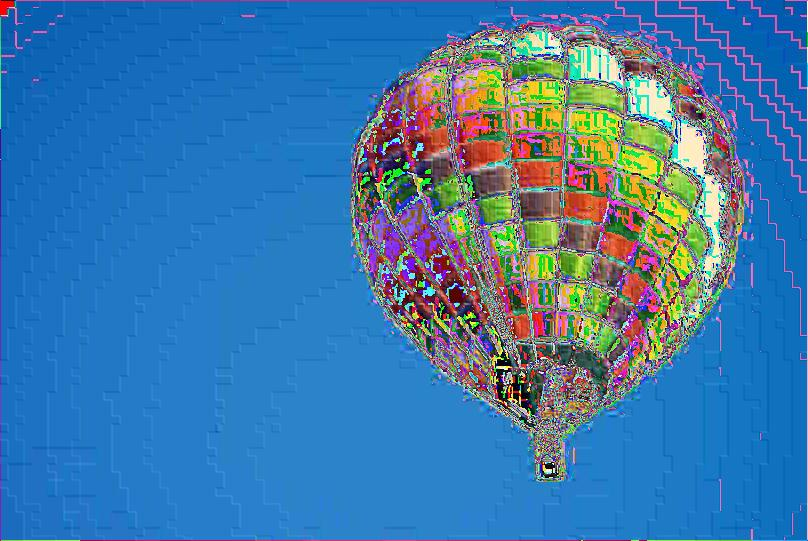
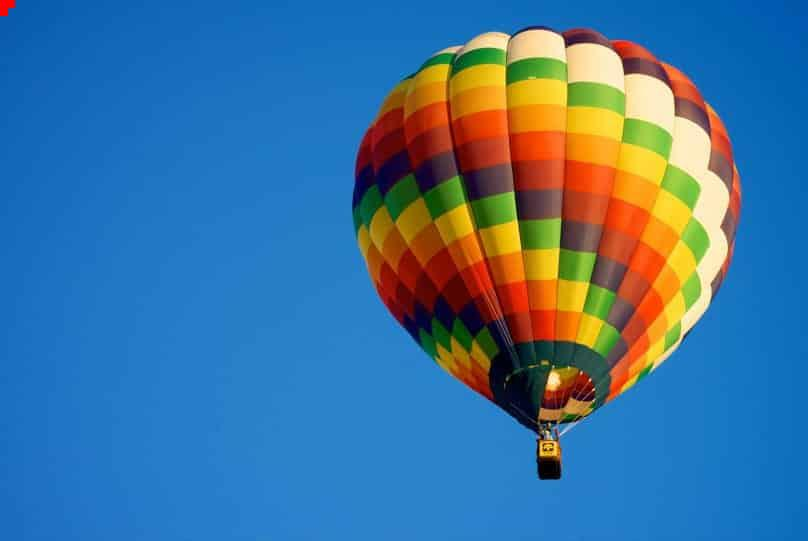
Espelhar, girar e barra de status

Changed region(s): [[0.0, 0.0, 1.0, 1.0]]

diff --git a/src/gui.py b/src/gui.py
@@ -109,6 +109,7 @@ class MainWindow(QMainWindow):
         self.img.append(QPixmap(self.imgNome))
         self.imgDisplay.setPixmap(self.img[self.imgInd])
         self.pixelsArray.append(main.carregarImg(self.imgNome))
+        self.sttsDim.setText(f"{len(self.pixelsArray[self.imgInd])}x{len(self.pixelsArray[self.imgInd][0])}")
     
     def salvarImagem(self):
         imgFolder = os.path.dirname(self.imgNome)
@@ -161,6 +162,12 @@ class MainWindow(QMainWindow):
         self.paramValue = 0
         self.pListValue = []
         self.imgZoom = 1
+
+        # Barra de status
+        self.sttsBar = QStatusBar(self)
+        self.sttsDim = QLabel("0x0")
+        self.sttsBar.addWidget(self.sttsDim)
+        self.setStatusBar(self.sttsBar)
 
         # Imagem
         self.pixelsArray = []
@@ -240,19 +247,22 @@ class MainWindow(QMainWindow):
         # Botões de ferramentas
         toolBtns = []
         btsBarra = QHBoxLayout()
-        btsTxts = ('Inverter','Brilho','Contraste','Cinza','Canais','Borrar','Borda')
+        btsTxts = ('EspelharH','EspelharV','Girar','Inverter','Brilho','Contraste','Cinza','Canais','Borrar','Borda')
         for i in range(len(btsTxts)):
             toolBtns.append(QPushButton(f"{btsTxts[i]}"))
             btsBarra.addWidget(toolBtns[i])
 
         # Associando funções para cada botão de ferramenta
-        toolBtns[0].pressed.connect(lambda: self.btnAction("Inverter...",main.inverter,1,1))
-        toolBtns[1].pressed.connect(lambda: self.btnAction("Brilho...",main.brilho_soma,-255,255))
-        toolBtns[2].pressed.connect(lambda: self.btnAction("Contraste...",main.contraste,-255,255))
-        toolBtns[3].pressed.connect(lambda: self.btnAction("Cinza...",main.to_grayscale,1,5))
-        toolBtns[4].pressed.connect(lambda: self.btnAction("Canais...",main.to_channel,1,3,['R','G','B']))
-        toolBtns[5].pressed.connect(lambda: self.btnAction("Borrar...",main.blur,1,10))
-        toolBtns[6].pressed.connect(lambda: self.btnAction("Borda...",main.sobel,1,1))
+        toolBtns[0].pressed.connect(lambda: self.btnAction("Espelhar horizontalmente...",'espelharH',1,1))
+        toolBtns[1].pressed.connect(lambda: self.btnAction("Espelhar verticalmente...",'espelharV',1,1))
+        toolBtns[2].pressed.connect(lambda: self.btnAction("Girar...",'girar',1,1))
+        toolBtns[3].pressed.connect(lambda: self.btnAction("Inverter...",main.inverter,1,1))
+        toolBtns[4].pressed.connect(lambda: self.btnAction("Brilho...",main.brilho_soma,-255,255))
+        toolBtns[5].pressed.connect(lambda: self.btnAction("Contraste...",main.contraste,-255,255))
+        toolBtns[6].pressed.connect(lambda: self.btnAction("Cinza...",main.to_grayscale,1,5))
+        toolBtns[7].pressed.connect(lambda: self.btnAction("Canais...",main.to_channel,1,3,['R','G','B']))
+        toolBtns[8].pressed.connect(lambda: self.btnAction("Borrar...",main.blur,1,10))
+        toolBtns[9].pressed.connect(lambda: self.btnAction("Borda...",main.sobel,1,1))
 
         # Adicionar e posicionar elementos na tela
         layout = QVBoxLayout()

diff --git a/src/main.py b/src/main.py
@@ -185,8 +185,28 @@ def alterarImg(pArray,func,valor,svImg=None):
     novaArray = np.array(pArray).view()
     maxLd = len(pArray) * len(pArray[0])
 
+    # fazendo alteração em espelhamento
+    if (func == 'espelharH'):
+        novaArray = []
+        for y in range(len(pArray)):
+            novaArray.append([])
+            for x in range(len(pArray[y])):
+                novaArray[y].insert(0,pArray[y][x])
+    elif (func == 'espelharV'):
+        novaArray = []
+        for y in range(len(pArray)):
+            novaArray.insert(0,[])
+            for x in range(len(pArray[y])):
+                novaArray[0].append(pArray[y][x])
+    elif (func == 'girar'):
+        novaArray = []
+        for y in range(len(pArray[0])):
+            novaArray.append([])
+            for x in range(len(pArray)):
+                novaArray[y].insert(0,pArray[x][y])
+
     # fazendo alteração nos pixels da imagem
-    if (func != None):
+    elif (func != None):
         for y in range(len(pArray)):
             for x in range(len(pArray[y])):
                 if func.__name__ in ('blur','sobel'):
